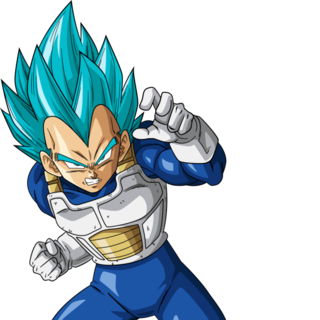
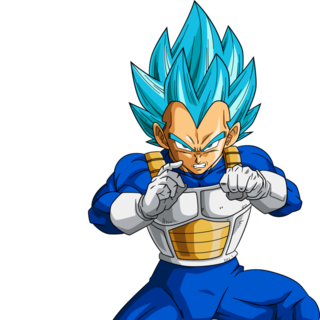
Added alt character pics

diff --git a/css/new.css b/css/new.css
@@ -58,7 +58,7 @@ li {
 	background-color: #00ffff;
 }
 .vegeta {
-	background: no-repeat url(../images/vegetaBlue2.png);
+	background: no-repeat url(../images/vegetaBlue.png);
 	background-size: cover;
 	background-color: #00ffff;
 }
@@ -68,9 +68,14 @@ li {
 	background-color: #ffff00;
 }
 .trunks {
-	background: no-repeat url(../images/trunks2.png) 100% 0%;
+	background: no-repeat url(../images/trunks.png) 100% 0%;
 	background-size: 150%;
 	background-color: #00FFFF;
+}
+.trunksSS {
+	background: no-repeat url(../images/trunksSS.png);
+	background-size: cover;
+	background-color: #ffff00;
 }
 .beerus {
 	background: no-repeat url(../images/beerus.png);
@@ -83,8 +88,8 @@ li {
 	background-color:#00CE00;
 }
 .gohan {
-	background: no-repeat url(../images/gohan.png);
-	background-size: cover;
+	background: no-repeat url(../images/gohan.png) 100% 100%;
+	background-size: 90%;
 	background-color: #ffff00;
 }
 .tien {
@@ -98,6 +103,16 @@ li {
 	background-color: #ffff00;
 }
 .gotenks {
+	background: no-repeat url(../images/gotenks.png);
+	background-size: cover;
+	background-color: #643464;
+}
+.gotenksSS {
+	background: no-repeat url(../images/gotenksSS.png);
+	background-size: cover;
+	background-color: #ffff00;
+}
+.gotenksSS3 {
 	background: no-repeat url(../images/gotenksSS3.png);
 	background-size: cover;
 	background-color: #ffff00;
@@ -108,7 +123,7 @@ li {
 	background-color: orange;
 }
 .krillin {
-	background: no-repeat url(../images/krillinAngry.png);
+	background: no-repeat url(../images/krillin.png);
 	background-size: 90%;
 	background-color: orange;
 }
@@ -118,7 +133,12 @@ li {
 	background-color: #ffe76A;
 }
 .black {
-	background: no-repeat url(../images/blackAngry.png);
+	background: no-repeat url(../images/black.png) 0% 0%;
+	background-size: 130%;
+	background-color: #6b6b6b;
+}
+.blackRose {
+	background: no-repeat url(../images/blackRose.png);
 	background-size: cover;
 	background-color: #ffc0cb;
 }
@@ -127,25 +147,40 @@ li {
 	background-size: cover;
 	background-color: #00ff80;
 }
-.kidBuu {
-	background: no-repeat url(../images/buu.png);
-	background-size: cover;
-	background-color: #ff94ce;
+.babidi {
+	background: no-repeat url(../images/babidi.png) 200% -1000%;
+	background-size: 95%;
+	background-color: orange;
+}
+.evilBuu {
+	background: no-repeat url(../images/evilBuu.png) 0% 25%;
+	background-size: 110%;
+	background-color: #bdbdbd;
 }
 .superBuu {
 	background: no-repeat url(../images/superBuu2.png) 50% 0%;
 	background-size: 85%;
 	background-color: #ff94ce;
 }
-.cell {
-	background: no-repeat url(../images/cell.png);
+.kidBuu {
+	background: no-repeat url(../images/kidBuu.png);
 	background-size: cover;
+	background-color: #ff94ce;
+}
+.cell {
+	background: no-repeat url(../images/cell.png) 0% 10%;
+	background-size: 130%;
 	background-color: #00ff00;
 }
 .cellJr {
 	background: no-repeat url(../images/cellJr.png);
 	background-size: cover;
 	background-color: #48b3e7;
+}
+.semiPerfectCell {
+	background: no-repeat url(../images/cellStage2.jpg) 0% 0%;
+	background-size: 130%;
+	background-color: #00e500;
 }
 .imperfectCell {
 	background: no-repeat url(../images/imperfectCell.png);
@@ -156,6 +191,11 @@ li {
 	background: no-repeat url(../images/android17.png);
 	background-size: cover;
 	background-color: #ff1919;
+}
+.android18 {
+	background: no-repeat url(../images/android18second.png) ;
+	background-size: 80%;
+	background-color: #4889d8;
 }
 .android19 {
 	background: no-repeat url(../images/android19.png);
@@ -210,11 +250,21 @@ li {
 .piccoloBackground {
 	background-color: #00ce00;
 }
-.superVegetaMessageBoard, .gohanMessageBoard, .gotenMessageBoard, .gotenksMessageBoard {
+.superVegetaMessageBoard, .trunksSSMessageBoard, 
+.gohanMessageBoard, .gotenMessageBoard, 
+.gotenksSSMessageBoard, .gotenksSS3MessageBoard {
 	color: #ffff00;
 }
-.superVegetaBackground, .gohanBackground, .gotenBackground, .gotenksBackground {
+.superVegetaBackground, .trunksSSBackground, 
+.gohanBackground, .gotenBackground, 
+.gotenksSSBackground, .gotenksSS3Background {
 	background-color: #ffff00;
+}
+.gotenksMessageBoard {
+	color: #643464;
+}
+.gotenksBackground {
+	background-color: #643464;
 }
 .tienMessageBoard {
 	color: white;
@@ -229,9 +279,15 @@ li {
 	background-color: #00b200;
 }
 .blackMessageBoard {
-	color: #ffc0cb;
+	color: #6b6b6b;
 }
 .blackBackground {
+	background-color: #6b6b6b;
+}
+.blackRoseMessageBoard {
+	color: #ffc0cb;
+}
+.blackRoseBackground {
 	background-color: #ffc0cb;
 }
 .zamasuMessageBoard {
@@ -246,6 +302,18 @@ li {
 .freizaBackground {
 	background-color: #ffe76a;
 }
+.babidiMessageBoard {
+	color: orange;
+}
+.babidiBackground {
+	background-color: orange;
+}
+.evilBuuMessageBoard {
+	color: #bdbdbd;
+}
+.evilBuuBackground {
+	background-color: #bdbdbd;
+}
 .kidBuuMessageBoard, .superBuuMessageBoard {
 	color: #ff94ce;
 }
@@ -257,6 +325,12 @@ li {
 }
 .cellBackground {
 	background-color: #00ff00;
+}
+.semiPerfectCellMessageBoard {
+	color: #00e500;
+}
+.semiPerfectCellBackground {
+	background-color: #00e500;
 }
 .imperfectCellMessageBoard {
 	color: #00a000;
@@ -281,6 +355,12 @@ li {
 }
 .android17Background {
 	background-color: #ff1919;
+}
+.android18MessageBoard {
+	color: #4889d8;
+}
+.android18Background {
+	background-color: #4889d8;
 }
 .android19MessageBoard {
 	color: #ffe166;

diff --git a/js/new.js b/js/new.js
@@ -23,7 +23,7 @@ var view = {
 	},
 
 	player1CharacterSelectButton: function() {
-		$("#player1CS").click(function() {
+		$("#player1CS").on('click', function() {
 			$("#heroSelect").css('display', 'block');
 			$('#messageAreaPlayer1').removeClass();
 			$('#left').removeClass();
@@ -35,10 +35,13 @@ var view = {
 			displayHero(".superVegeta", 'superVegetaMessageBoard', 'superVegetaBackground', 'superVegeta');
 			displayHero(".beerus", 'beerusMessageBoard', 'beerusBackground', 'beerus');
 			displayHero(".trunks", 'trunksMessageBoard', 'trunksBackground', 'trunks');
+			displayHero(".trunksSS", 'trunksSSMessageBoard', 'trunksSSBackground', 'trunksSS');
 			displayHero(".gohan", 'gohanMessageBoard', 'gohanBackground', 'gohan');			
 			displayHero(".piccolo", 'piccoloMessageBoard', 'piccoloBackground', 'piccolo');
 			displayHero(".tien", 'tienMessageBoard', 'tienBackground', 'tien');
 			displayHero(".gotenks", 'gotenksMessageBoard', 'gotenksBackground', 'gotenks');
+			displayHero(".gotenksSS", 'gotenksSSMessageBoard', 'gotenksSSBackground', 'gotenksSS');
+			displayHero(".gotenksSS3", 'gotenksSS3MessageBoard', 'gotenksSS3Background', 'gotenksSS3');
 		});
 
 		function displayHero(character, characterMessageBoard, characterBackground, characterPic) {
@@ -55,17 +58,8 @@ var view = {
 		};
 	},
 
-	toggleCharacters: function(divNumber, array) {
-		$(divNumber).contextmenu(function() {
-			var classes = array;
-			$(divNumber).each(function() {
-				this.className = classes[($.inArray(this.className, classes)+1)%classes.length];
-			})
-		});
-	},
-
 	player2CharacterSelectButton: function() {
-		$("#player2CS").click(function() {
+		$("#player2CS").on('click', function() {
 			$("#villianSelect").css('display', 'block');
 			$('#messageAreaPlayer2').removeClass();
 			$('#right').removeClass();
@@ -73,28 +67,46 @@ var view = {
 			$("#board").css('display', 'none');
 
 			displayVillian(".black", 'blackMessageBoard', 'blackBackground', 'black');
+			displayVillian(".blackRose", 'blackRoseMessageBoard', 'blackRoseBackground', 'blackRose');
 			displayVillian(".zamasu", 'zamasuMessageBoard', 'zamasuBackground', 'zamasu');
 			displayVillian(".frieza", 'freizaMessageBoard', 'freizaBackground', 'frieza');
-			displayVillian(".kidBuu", 'kidBuuMessageBoard', 'kidBuuBackground', 'kidBuu');
+			displayVillian(".babidi", 'babidiMessageBoard', 'babidiBackground', 'babidi');
+			displayVillian(".evilBuu", 'evilBuuMessageBoard', 'evilBuuBackground', 'evilBuu');
 			displayVillian(".superBuu", 'superBuuMessageBoard', 'superBuuBackground', 'superBuu');
+			displayVillian(".kidBuu", 'kidBuuMessageBoard', 'kidBuuBackground', 'kidBuu');
 			displayVillian(".cell", 'cellMessageBoard', 'cellBackground', 'cell');
+			displayVillian(".semiPerfectCell", 'semiPerfectCellMessageBoard', 'semiPerfectCellBackground', 'semiPerfectCell');
 			displayVillian(".imperfectCell", 'imperfectCellMessageBoard', 'imperfectCellBackground', 'imperfectCell');
 			displayVillian(".cellJr", 'cellJrMessageBoard', 'cellJrBackground', 'cellJr');
 			displayVillian(".frost", 'frostMessageBoard', 'frostBackground', 'frost');
 			displayVillian(".android17",'android17MessageBoard', 'android17Background', 'android17');
+			displayVillian(".android18",'android18MessageBoard', 'android18Background', 'android18');
 			displayVillian(".android19",'android19MessageBoard', 'android19Background', 'android19');
 			displayVillian(".android20",'android20MessageBoard', 'android20Background', 'android20');
 		});
 
 		function displayVillian(character, characterMessageBoard, characterBackground, characterPic) {
 			$(character).click(function() {
+				$('#messageAreaPlayer2').removeClass();
 				$('#messageAreaPlayer2').addClass(characterMessageBoard);
+				$('#right').removeClass();
 				$('#right').addClass(characterBackground);
+				$('#imgPlayer2').removeClass();
 				$('#imgPlayer2').addClass(characterPic);
 				$("#villianSelect").css('display', 'none');
 				$("#board").css('display', 'block');
 			});
 		};
+	}, 
+
+	toggleCharacters: function(divNumber, array, whichPlayer) {
+		$(divNumber).contextmenu(function() {
+			var classes = array;
+			$(divNumber).each(function() {
+				this.className = classes[($.inArray(this.className, classes)+1)%classes.length];
+				$(whichPlayer).trigger('click');
+			})
+		});
 	}
 };
 
@@ -479,7 +491,14 @@ window.onload = function() {
 	newGameButton();
 	model.generateShipLocationsPlayer1();
 	model.generateShipLocationsPlayer2();
-	view.toggleCharacters("#hDiv7", ['vegeta', 'superVegeta']);
+
+	view.toggleCharacters("#hDiv4", ['trunks', 'trunksSS'], "#player1CS");
+	view.toggleCharacters("#hDiv5", ['gotenks', 'gotenksSS', 'gotenksSS3'], "#player1CS");
+	view.toggleCharacters("#hDiv7", ['vegeta', 'superVegeta'], "#player1CS");
+	
+	view.toggleCharacters("#vDiv6", ['black', 'blackRose'], "#player2CS");
+	view.toggleCharacters("#vDiv8", ['kidBuu', 'evilBuu', 'superBuu'], "#player2CS");
+	view.toggleCharacters("#vDiv10", ['imperfectCell', 'semiPerfectCell', 'cell'], "#player2CS");
 }
 
 

diff --git a/new.html b/new.html
@@ -25,7 +25,7 @@
 				<td id="hDiv4" class="trunks"></td>
 			</tr>
 			<tr>
-				<td id="hDiv5" class="gotenks"></td>
+				<td id="hDiv5" class="gotenksSS"></td>
 				<td id="hDiv6" class="beerus"></td>
 				<td id="hDiv7" class="vegeta"></td>
 				<td id="hDiv8" class="gohan"></td>
@@ -33,22 +33,22 @@
 		</table>
 		<table id="villianSelect" oncontextmenu="return false;">
 			<tr>
-				<td id="vDiv1" class="frost"></td>
-				<td id="vDiv2" class="black"></td>
-				<td id="vDiv3" class="android17"></td>
+				<td id="vDiv1" class="android20"></td>
+				<td id="vDiv2" class="android17"></td>
+				<td id="vDiv3" class="android18"></td>
 				<td id="vDiv4" class="android19"></td>
 			</tr>
 			<tr>
-				<td id="vDiv5" class="cell"></td>
-				<td id="vDiv6" class="android20"></td>
+				<td id="vDiv5" class="cellJr"></td>
+				<td id="vDiv6" class="black"></td>
 				<td id="vDiv7" class="zamasu"></td>
 				<td id="vDiv8" class="kidBuu"></td>
 			</tr>
 			<tr>
-				<td id="vDiv9" class="superBuu"></td>
-				<td id="vDiv10" class="cellJr"></td>
+				<td id="vDiv9" class="frost"></td>
+				<td id="vDiv10" class="cell"></td>
 				<td id="vDiv11" class="frieza"></td>
-				<td id="vDiv12" class="imperfectCell"></td>
+				<td id="vDiv12" class="babidi"></td>
 			</tr>
 		</table>
 
